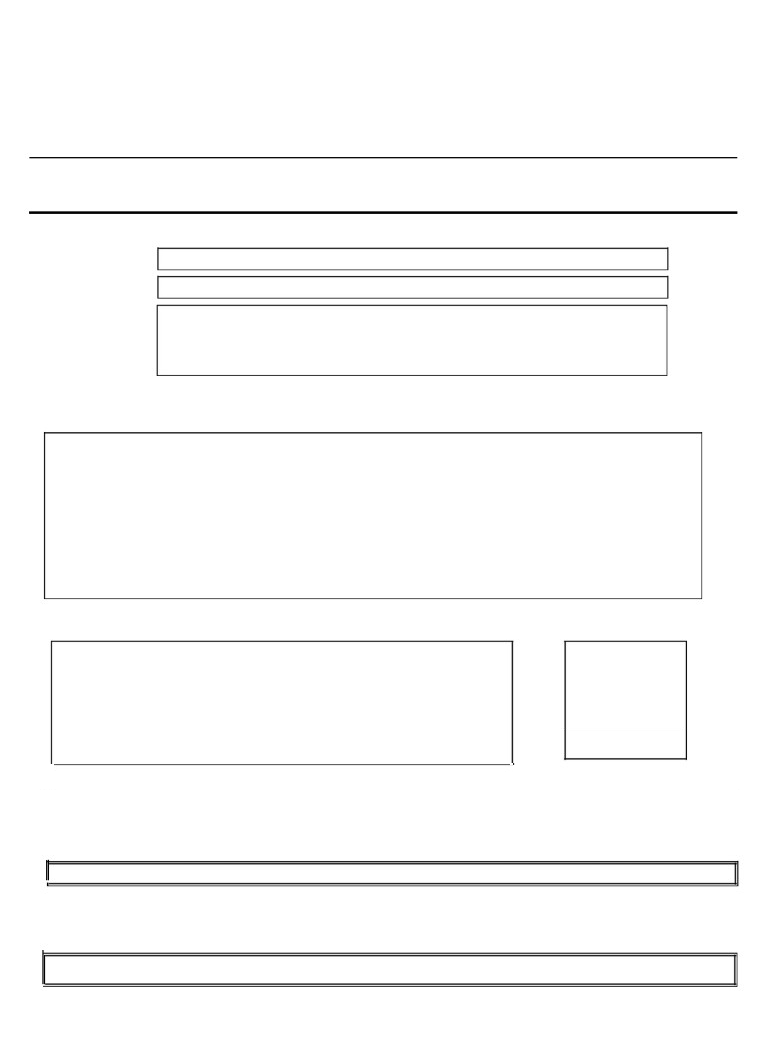
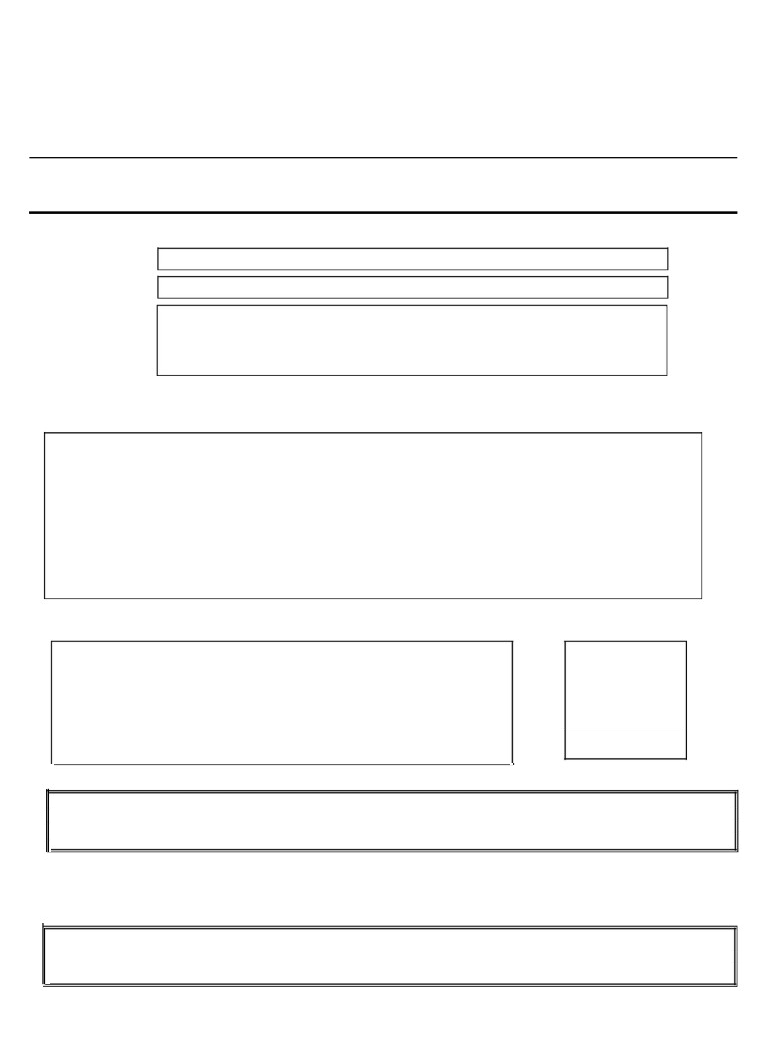
finishing bgas form

Changed region(s): [[0.0615, 0.7486, 0.9526, 0.8422], [0.0307, 0.8733, 0.9526, 0.9045]]

diff --git a/mysite/templates/forms/reg_forms/BGAS_experience_form.html b/mysite/templates/forms/reg_forms/BGAS_experience_form.html
@@ -260,25 +260,30 @@ div.cls_010{font-family:"Liberation Sans Narrow",serif;font-size:8.1px;color:rgb
 <div style="position:absolute;left:42.10px;top:533.70px; " class="cls_009"><span class="cls_009">Position:<input type="text" value=""  name="verifierPosition" style="margin-left:0px; width:150px; border: none; background: transparent;" / ></span></div>
 <div style="position:absolute;left:42.10px;top:550.70px; " class="cls_009"><span class="cls_009">Tel No:<input type="text" value=""  name="verifierTel" style="margin-left:0px; width:150px; border: none; background: transparent;" / ></span></div>
 <div style="position:absolute;left:42.10px;top:568.30px; " class="cls_009"><span class="cls_009">Email Address:<input type="email" value=""  name="verifiermail" style="margin-left:0px; width:150px; border: none; background: transparent;" / ></span></div>
-<div style="position:absolute;left:42.10px;top:688.30px; " class="cls_009"><span class="cls_009">Date:<input type="text" value=""  name="verifierDate" style="margin-left:0px; width:150px; border: none; background: transparent;" / ></span></div>
-<div style="position:absolute;left:442.10px;top:630.10px" class="cls_005"><span class="cls_005">Authenticated Company Stamp</span></div>
-<div style="position:absolute;left:40.10px;top:639.20px" class="cls_007"><span class="cls_007">To the best of my belief, the candidate’s statement is correct at the time of signing</span></div>
-<div style="position:absolute;left:40.99px;top:669.70px" class="cls_008"><span class="cls_008">Verifying Signature (employer or equivalent):</span></div>
-<div style="position:absolute;left:34.10px;top:693.90px" class="cls_007"><span class="cls_007">CANDIDATE - PLEASE NOTE</span></div>
-<div style="position:absolute;left:34.10px;top:702.70px" class="cls_007"><span class="cls_007">Terms and conditions of your online booking apply.</span></div>
-<div style="position:absolute;left:34.10px;top:725.20px" class="cls_007"><span class="cls_007">I understand that any false statement may result in the examination being invalidated.</span></div>
-<div style="position:absolute;left:38.29px;top:755.50px" class="cls_004"><span class="cls_004">CANDIDATE SIGNATURE:</span></div>
+<div style="position:absolute;left:42.10px;top:583.30px; " class="cls_009"><span class="cls_009">Date:<input type="text" value=""  name="verifierDate" style="margin-left:0px; width:150px; border: none; background: transparent;" / ></span></div>
+<div style="position:absolute;left:442.10px;top:602.10px" class="cls_005"><span class="cls_005">Authenticated Company Stamp</span></div>
+<div style="position:absolute;left:40.10px;top:602.20px" class="cls_007"><span class="cls_007">To the best of my belief, the candidate’s statement is correct at the time of signing</span></div>
+<div style="position:absolute;left:40.99px;top:620.70px" class="cls_008"><span class="cls_008">Verifying Signature (employer or equivalent):</span></div>
+<div style="position:absolute;left:34.10px;top:673.90px" class="cls_007"><span class="cls_007">CANDIDATE - PLEASE NOTE</span></div>
+<div style="position:absolute;left:34.10px;top:683.70px" class="cls_007"><span class="cls_007">Terms and conditions of your online booking apply.</span></div>
+<div style="position:absolute;left:34.10px;top:705.20px" class="cls_007"><span class="cls_007">I understand that any false statement may result in the examination being invalidated.</span></div>
+<div style="position:absolute;left:38.29px;top:730.50px" class="cls_004"><span class="cls_004">CANDIDATE SIGNATURE:</span></div>
 
 
+    <br>
+    <br>
+    <br>
+<div class="col-md-12 text-center" style="position:absolute;bottom:0px;">
+                 <button class="BUTTON_MZQ" type="submit">Submit</button>
+             </div>
 </div>
 
 
-<br>
-<div class="mb-3 col-md-12 text-center" style="position:absolute;left:38.29px;bottom:40px">
-                 <button class="btn btn-primary" type="submit">Submit</button>
-             </div>
+
 
                                      </form>   
+ <br>
+ <br>
  <br>
  <br>
  <br>
